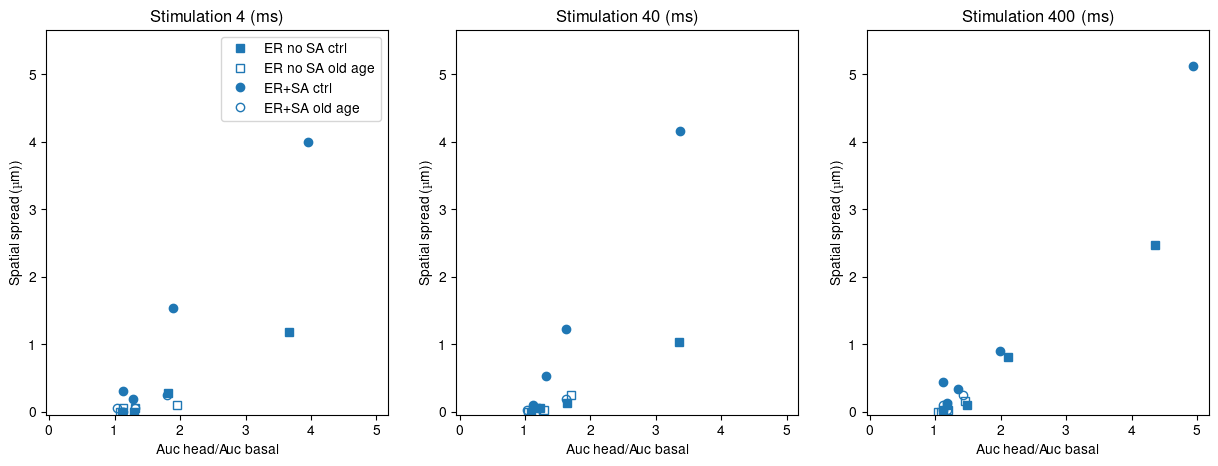
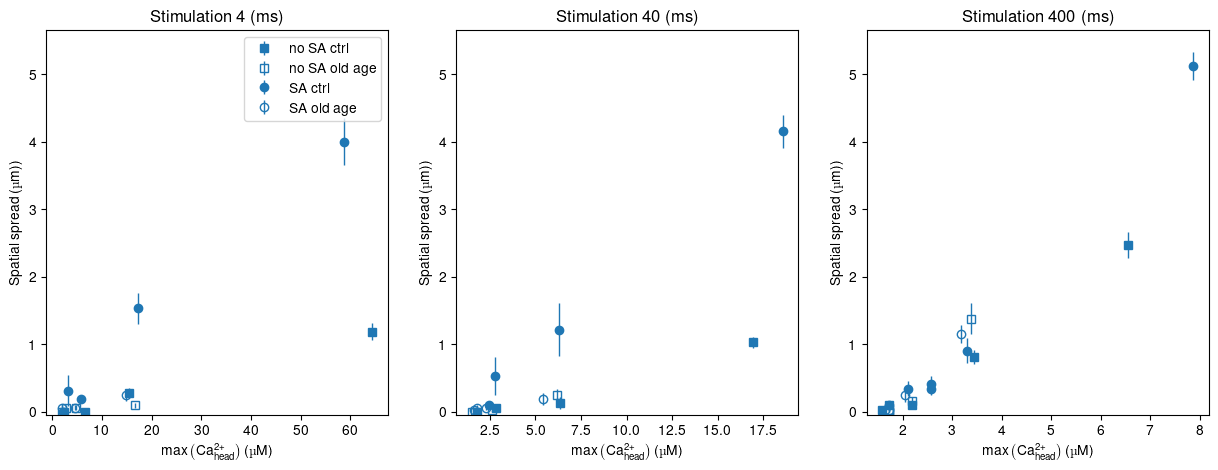
Start looking at duration as well

diff --git a/scripts/utility_functions.py b/scripts/utility_functions.py
@@ -43,7 +43,7 @@ def pretty_axis(ax1):
     max_xlim = max([max(ax.get_xlim()) for ax in ax1])
     for x in ax1:
         x.set_ylim([-0.05, max_ylim+0.05])
-        x.set_xlim([-0.05, max_xlim+0.05])
+        #x.set_xlim([-0.05, max_xlim+0.05])
         
 
         
@@ -478,6 +478,32 @@ def get_distance(conc_dict, dt, t_init, stim_len, spine_idx, rollo=True,
     return decays
 
 
+def get_blob(conc_dict, dt, t_init, stim_len, spine_idx, rollo=True,
+             interval=700):
+    
+    decays = np.zeros((len(conc_dict), 1))
+    shape = conc_dict["trial0"].shape[0]
+    find_max = conc_dict["trial0"].argmax()
+    full_shape = conc_dict["trial0"].shape
+    
+    for i, concentration in enumerate(conc_dict.values()):
+        ca_conc = np.zeros((shape,))
+      
+        new_beg = int((t_init)/dt)
+        ca_ctrl = concentration[:, int(1000/dt):new_beg].mean(axis=(0,1))
+        ca_std = concentration[:, int(1000/dt):new_beg].std()
+        try:
+            ca_max = concentration[:, new_beg:].max()/2 #ca_ctrl+6*ca_std
+       
+        except ValueError:
+            continue
+
+        ca_lim = ca_ctrl + 5*ca_std
+        indices = np.where(concentration[:, new_beg:] > ca_lim)
+        print(indices)
+    return decays
+
+
 
 def max_vs_distance(conc, dt, t_init, spine_idx=49, length=51):
     out_conc = np.zeros((len(conc.values()), spine_idx))
@@ -639,6 +665,60 @@ def make_distance_figs(directories, stim_dict, output, types, markers,
     ax2[0].legend()
     return fig1
 
+
+def area_over_250_mean(directories, stim_dict, output, types, markers,
+                         fillstyles, length=42, spine_idx=21, t_init=3000,
+                         xlabel=r"Auc head/Auc basal",
+                         ylabel=r"Auc dendrite/Auc basal)", max_ca=False):
+    if max_ca is True:
+        xlabel = r"$\mathrm{max\left(Ca_{head}^{2+}\right)}\, (\unit{\micro\Molar})$"
+    fig1, ax1 = plt.subplots(1, len(stim_dict.keys()),
+                             figsize=(len(stim_dict.keys())*5, 5))
+    fig2, ax2 = plt.subplots(1, len(stim_dict.keys()),
+                              figsize=(len(stim_dict.keys())*5, 5))
+    for k, dur in enumerate(stim_dict.keys()):
+        
+        
+        
+        for i, fname in  enumerate(directories):
+            auc_head_m = []
+            auc_head_e = []
+            spread_m = []
+            spread_e = []
+            for inj in stim_dict[dur]:
+                print(fname % (dur, inj))
+                try:
+                    my_data = h5py.File(fname % (dur, inj))
+                except FileNotFoundError:
+                    print("Cound not open ", fname % (dur, inj))
+                    continue
+        
+                dend_ca, time_dict = get_conc(my_data, "Ca", ["dend11"], output)
+                head_ca, time_head_dict = get_conc(my_data, "Ca", ['head'], output)
+                dt = time_dict["trial0"][1]-time_dict["trial0"][0]
+                t_start = int(t_init/dt)
+               
+                length = time_dict["trial0"][-1] - t_start
+         
+                trials = len(dend_ca.keys())
+                auch = np.zeros((trials))
+                for j, trial in enumerate(dend_ca.keys()):
+                    if max_ca is True:
+                        auch[j] = head_ca[trial][1,:].max()/1000
+                    else:
+                        auch[j] = head_ca[trial][1, t_start:].sum()/(len(head_ca[trial][1, t_start:])*head_ca[trial][1,:t_start].mean())
+                    
+                spread = get_blob(dend_ca, dt, t_init=t_init, stim_len=int(dur),
+                                  spine_idx=spine_idx)
+                auc_head_m.append(auch.mean())
+                
+                auc_head_e.append(auch.std()/trials**0.5)
+                spread_m.append(spread.mean())
+                spread_e.append(spread.std()/trials**0.5)
+                ax2[k].plot(auch, spread,label=types[i], marker=markers[i],
+                            fillstyle=fillstyles[i], color="tab:blue",
+                            linewidth=0)
+            print(auc_head_m, spread_m, spread_e)
             ax1[k].errorbar(auc_head_m, spread_m, spread_e,
                             label=types[i], marker=markers[i],
                             fillstyle=fillstyles[i], color="tab:blue",

diff --git a/scripts/spatial_spread_Ltype_IP3.py b/scripts/spatial_spread_Ltype_IP3.py
@@ -39,9 +39,9 @@ file_spine_ER_dend_ER_dend_Ca = os.path.join("..", "1_spine_different_Ca_amp_Ca_
                                       "model_Ca_dend_RyR2CaM_RyR3CaM_1.2_um_dend_spine_%s_ms_%s.h5")
 t_init = 3000
 output = "Ca"
-types = ["no SA no mGluR", "no SA mGluR", "SA no mGluR", "SA mGluR",]
-markers = ["s", "s", "o", "o"]
-fillstyles = ["none", "full", "none", "full"]
+types = [r"no SA no L-type no $\mathrm{IP_3R}$",r"no SA + L-type no $\mathrm{IP_3R}$", r"no SA + L-type + $\mathrm{IP_3R}$", r"SA no L-type no $\mathrm{IP_3R}$",r"SA + L-type no $\mathrm{IP_3R}$", r"SA + L-type + $\mathrm{IP_3R}$",]
+markers = ["o", "^", "s",  "o", "^", "s"]
+fillstyles = ["none", "none", "none", "full", "full", "full"]
 stim_dict = {
     "4": ["01750", "03500", "07000", "10500"],
     "40": ["0175", "0350", "0700", "1050"],
@@ -54,10 +54,10 @@ region_list = ["dend01", "dend02", "dend03", "dend04", "dend05", "dend06", "dend
 spine_idx = 21
 if __name__ == '__main__':
     rollo = True
-    dirs = [file_dend_ER_Ltype, file_dend_ER_Ltype_IP3,
-            file_spine_ER_dend_ER_Ltype, file_spine_ER_dend_ER_Ltype_IP3]
+    dirs = [file_dend_ER_ctrl,file_dend_ER_Ltype, file_dend_ER_Ltype_IP3,
+            file_spine_ER_dend_ER, file_spine_ER_dend_ER_Ltype, file_spine_ER_dend_ER_Ltype_IP3]
     fig = utils.make_distance_figs(dirs, stim_dict, output, types, markers,
-                       fillstyles, length=42, spine_idx=21, t_init=t_init)
+                                   fillstyles, length=42, spine_idx=21, t_init=t_init, max_ca=True)
     fig.savefig("Spatial_spread_Ltype_IP3_%s.png" % rollo, dpi=100, bbox_inches="tight")
         
     

diff --git a/scripts/spatial_spread_ER_no_ER_old_age.py b/scripts/spatial_spread_ER_no_ER_old_age.py
@@ -27,7 +27,7 @@ file_spine_ER_dend_ER_oa = os.path.join("..", "1_spine_different_Ca_amp",
                                       "model_RyR2CaM_RyR3CaM_old_age_1.2_um_dend_spine_%s_ms_%s.h5")
 t_init = 3000
 output = "Ca"
-types = ["ER no SA ctrl", "ER no SA old age", "ER+SA ctrl", "ER+SA old age"]
+types = ["no SA ctrl", "no SA old age", "SA ctrl", "SA old age"]
 markers = ["s", "s", "o", "o"]
 fillstyles = ["full", "none", "full", "none"]
 stim_dict = {
@@ -44,5 +44,5 @@ if __name__ == '__main__':
     rollo = True
     dirs = [file_dend_ER_ctrl, file_dend_ER_oa, file_spine_ER_dend_ER, file_spine_ER_dend_ER_oa] 
     fig = utils.make_distance_figs(dirs, stim_dict, output, types, markers,
-                       fillstyles, length=42, spine_idx=21, t_init=t_init)
+                                   fillstyles, length=42, spine_idx=21, t_init=t_init, max_ca=True)
     fig.savefig("Spatial_spread_ER_no_ER_old_age_%s.png" % rollo, dpi=100, bbox_inches="tight")

diff --git a/scripts/spatial_spread_Ltype.py b/scripts/spatial_spread_Ltype.py
@@ -41,5 +41,5 @@ if __name__ == '__main__':
     dirs = [file_dend_ER_ctrl,file_dend_ER_dend_Ca, file_spine_ER_dend_ER,
             file_spine_ER_dend_ER_dend_Ca]#, file_no_ER_Ltype]
     fig = utils.make_distance_figs(dirs, stim_dict, output, types, markers,
-                       fillstyles, length=42, spine_idx=21, t_init=t_init)
+                                   fillstyles, length=42, spine_idx=21, t_init=t_init, max_ca=True)
     fig.savefig("Spatial_spread_Ltype_%s.png" % rollo, dpi=100, bbox_inches="tight")

diff --git a/scripts/spatial_spread_ER_no_ER.py b/scripts/spatial_spread_ER_no_ER.py
@@ -41,5 +41,5 @@ if __name__ == '__main__':
     rollo = True
     dirs = [file_no_ER_ctrl, file_dend_ER_ctrl, file_spine_ER_dend_ER, file_spine_ER_no_dend_ER]
     fig = utils.make_distance_figs(dirs, stim_dict, output, types, markers,
-                       fillstyles, length=42, spine_idx=21, t_init=t_init)
+                                   fillstyles, length=42, spine_idx=21, t_init=t_init, max_ca=True)
     fig.savefig("Spatial_spread_ER_no_ER_%s.png" % rollo, dpi=100, bbox_inches="tight")

diff --git a/scripts/spatial_spread_Ltype_old_age.py b/scripts/spatial_spread_Ltype_old_age.py
@@ -51,6 +51,7 @@ if __name__ == '__main__':
         file_spine_ER_dend_ER_dend_Ca_old_age,
     ]
     fig = utils.make_distance_figs(dirs, stim_dict, output, types, markers,
-                       fillstyles, length=42, spine_idx=21, t_init=t_init)
+                                   fillstyles, length=42, spine_idx=21, t_init=t_init,
+                                   max_ca=True)
     fig.savefig("Spatial_spread_Ltype_old_age_%s.png" % rollo, dpi=100,
                 bbox_inches="tight")
